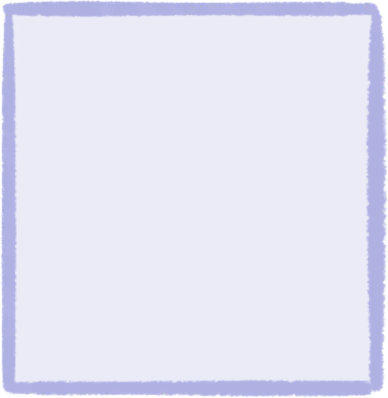
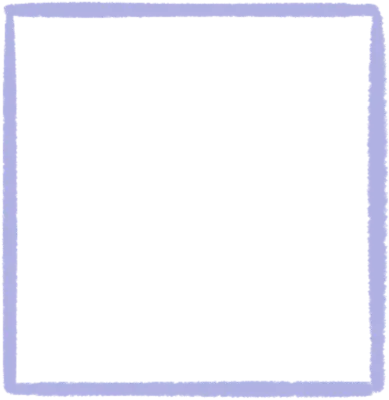
fix: diary ui. font to be changed

diff --git a/miniprogram/components/inventory-picker/inventory-picker.ts b/miniprogram/components/inventory-picker/inventory-picker.ts
@@ -78,8 +78,14 @@ Component({
       if (this.properties.lockTab) return;
       const tab = e.currentTarget.dataset.tab as InvCategory;
       if (!tab || tab === this.data.tab) return;
-      const items = await fetchOwned(tab);
-      this.setData({ tab, items });
+      // 先切 tab 贴图（立即反馈），再异步拉列表
+      this.setData({ tab, items: [] });
+      try {
+        const items = await fetchOwned(tab);
+        this.setData({ items });
+      } catch {
+        /* ignore: 列表为空就是失败提示 */
+      }
     },
 
     onTapItem(e: WechatMiniprogram.TouchEvent) {

diff --git a/miniprogram/pages/home/index.ts b/miniprogram/pages/home/index.ts
@@ -30,6 +30,7 @@ Page({
     footerBottom: 0,
     assets: {} as HomeAssets,
     showBag: false,
+    showInv: false,
     showSettings: false,
   },
 
@@ -157,6 +158,19 @@ Page({
       return;
     }
     this.setData({ showBag: true });
+  },
+
+  onTapItems() {
+    playTap();
+    this.setData({ showInv: true });
+  },
+
+  onCloseInv() {
+    this.setData({ showInv: false });
+  },
+
+  onSelectInv() {
+    wx.showToast({ title: '已选择', icon: 'none' });
   },
 
   onTapPrepare() {

diff --git a/miniprogram/utils/asset-path.ts b/miniprogram/utils/asset-path.ts
@@ -63,6 +63,7 @@ export const HOME_ASSETS = {
   biaoBag: 'home/biao-bag',
   btnPrepare: 'home/btn-prepare',
   iconBag: 'icons/home/bag',
+  iconItems: 'icons/roof/items',
   iconShop: 'icons/home/shop',
   iconGacha: 'icons/shop/utility-gacha',
   iconPrepare: 'icons/home/prepare',

diff --git a/miniprogram/components/icon-close/icon-close.ts b/miniprogram/components/icon-close/icon-close.ts
@@ -6,7 +6,7 @@ Component({
 
   methods: {
     onTap() {
-      this.triggerEvent('tap');
+      this.triggerEvent('close');
     },
   },
 });
